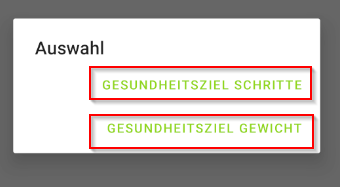
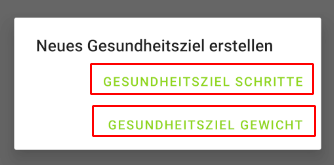
Updated menu structure

diff --git a/.docs/user-manual/gesundheitsziele-erstellen/gesundheitsziele-erstellen.md b/.docs/user-manual/gesundheitsziele-erstellen/gesundheitsziele-erstellen.md
@@ -4,19 +4,15 @@
 
 ![](HealthGoal_1.png)
 
-2. Im Auswahlmenü, den Punkt Gesundheitsziel auswählen
-
-![](HealthGoal_2.png)
-
-3. Im Auswahlmenü das gewünschte Gesundheitsziel auswählen
+2. Im Auswahlmenü das gewünschte Gesundheitsziel auswählen
 
 ![](HealthGoal_3.png)
 
-4. Das gewünschte Ziel ausfüllen. Das Datum, wann das Ziel erreicht werden soll, ausfüllen. Anschließend auf "Speichern" drücken
+3. Das gewünschte Ziel ausfüllen. Das Datum, wann das Ziel erreicht werden soll, ausfüllen. Anschließend auf "Speichern" drücken
 
 ![](HealthGoal_Steps.png)
 
-5. Warten bis eine Erfolgsmeldung/Fehlermeldung erscheint
+4. Warten bis eine Erfolgsmeldung/Fehlermeldung erscheint
 
 ![](HealthGoal_Rueckmeldung.png)
 
